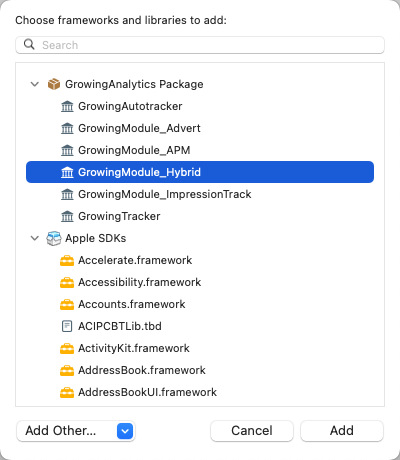
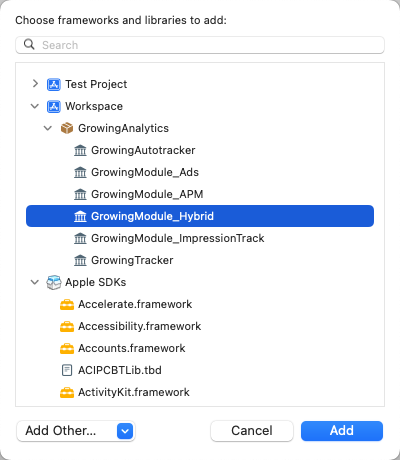
fix(iOS): rename advert to ads

Changed region(s): [[0.06, 0.1522, 0.96, 0.6696], [0.15, 0.6696, 0.54, 0.8826], [0.75, 0.913, 0.96, 0.9739]]

diff --git a/docs/ios/modules/Ads Module.md b/docs/ios/modules/Ads Module.md
@@ -52,11 +52,11 @@ import TabItem from '@theme/TabItem';
 
 ### 模块集成
 
-1. 添加 **GrowingModule_Advert** Package
+1. 添加 **GrowingModule_Ads** Package
 
-<ImageLoader path="img/ios/add_package_advert" />
+<ImageLoader path="img/ios/add_package_ads" />
 
-2. 在 AppDelegate.swift 中导入 `import GrowingModule_Advert`
+2. 在 AppDelegate.swift 中导入 `import GrowingModule_Ads`
 
 ### 模块配置
 
@@ -96,12 +96,12 @@ Autotracker.start(config!, launchOptions: launchOptions)
 | `doDeeplink` | `URL`       | 是      | `null`  | 深度链接URL，示例：https://n.datayi.cn/k4wudMXn  |
 
 ```swift
-let advert = Advertising.sharedInstance()
+let ads = Advertising.sharedInstance()
 let callback = { (params: [AnyHashable : Any]?,
                   processTime: TimeInterval,
                   error: Error? ) -> Void in
 }
-advert.doDeeplink(by: URL(string: "Your DeepLinkUrl")!, callback: callback)
+ads.doDeeplink(by: URL(string: "Your DeepLinkUrl")!, callback: callback)
 ```
 
 ### 获取 Apple Search Ads 归因数据分析
@@ -132,7 +132,7 @@ Autotracker.start(config!, launchOptions: launchOptions)
 1. 使用 Cocoapods 安装
 
 ```shell
-pod 'GrowingAnalytics/Advert'
+pod 'GrowingAnalytics/Ads'
 ```
 
 打开终端，切换到项目目录，执行 `pod install` 或 `pod update`

diff --git a/docs/ios/modules/index.md b/docs/ios/modules/index.md
@@ -14,7 +14,7 @@ title: 模块列表
 | 无埋点圈选 - WebCircle      |         基于无埋点的圈选插件，默认集成在无埋点 SDK 中          | [圈选模块](/docs/ios/modules/WebCircle%20Module)       |
 | 数据调试 - MobileDebugger       |         数据调试 Mobile Debugger，默认集成在无埋点/埋点 SDK 中         | [Debugger 模块](/docs/ios/modules/MobileDebugger%20Module) |
 | 曝光采集 - ImpressionTrack   |         曝光采集，需要集成生效         | [曝光采集模块](/docs/ios/modules/ImpressionTrack%20Module) |
-| 广告 - Advert             |           添加激活事件和 DeepLink 功能，需要集成生效           | [广告模块](/docs/ios/modules/Advert%20Module)        |
+| 广告 - Ads             |           添加激活事件和 DeepLink 功能，需要集成生效           | [广告模块](/docs/ios/modules/Ads%20Module)        |
 | 性能监控 - APM            |          用于监控应用的性能和错误分析，需要集成生效          | [性能监控模块](/docs/ios/modules/APM%20Module)     |
 | 更多开发中...           |                                                              |                                                              |
 
